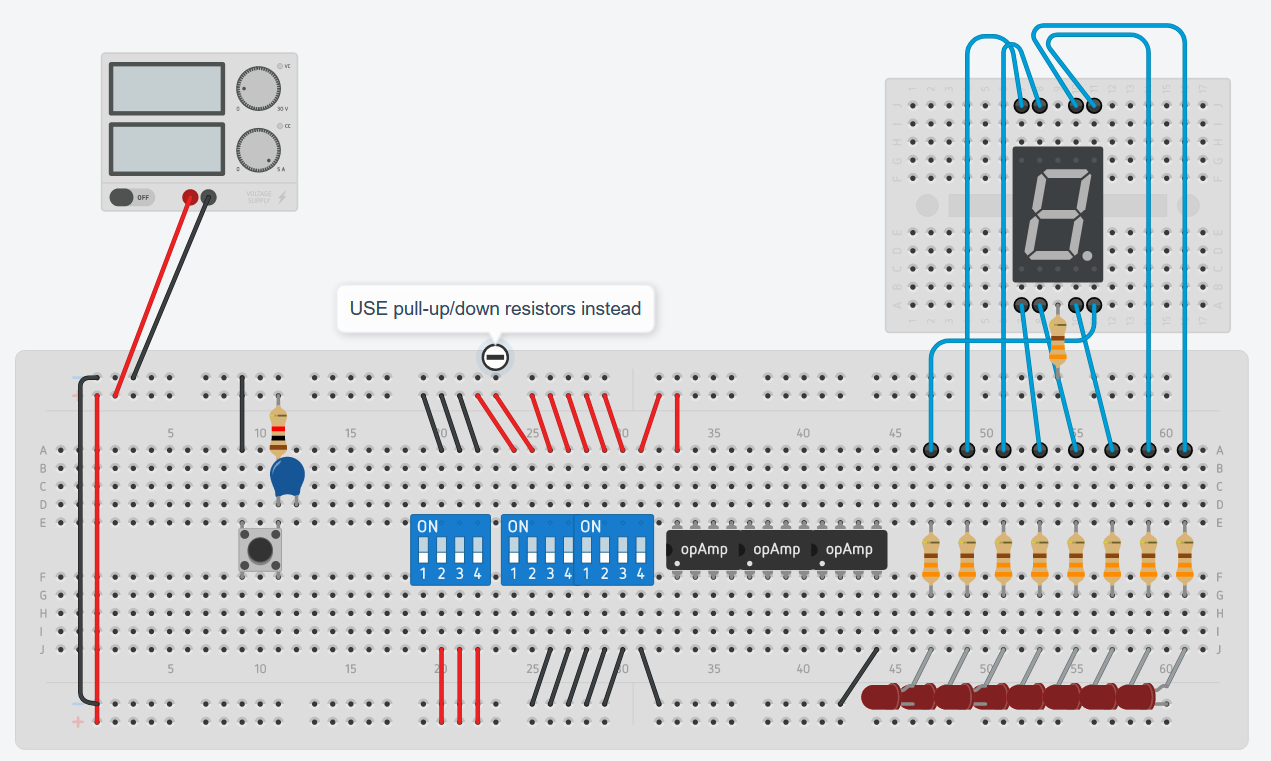
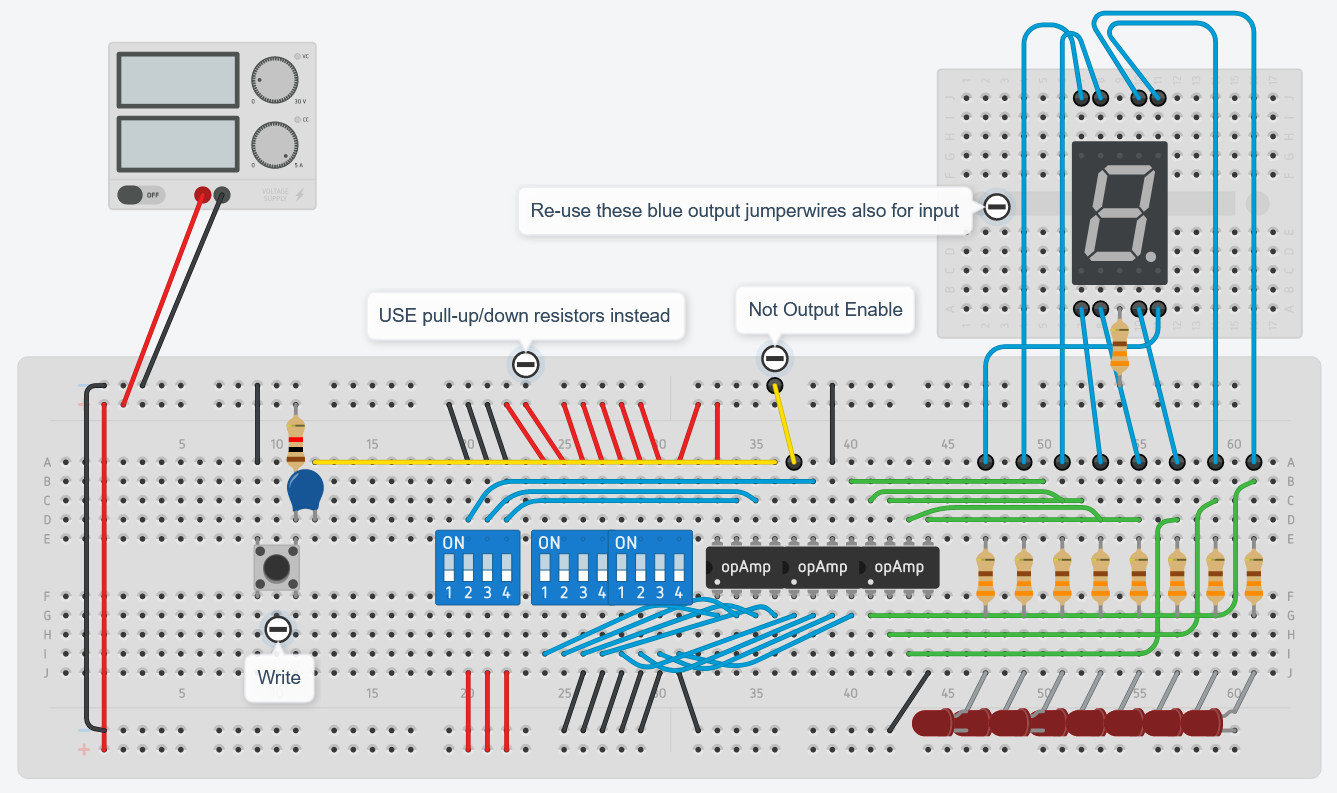
man man man

Changed region(s): [[0.0, 0.0, 1.0, 0.9974], [0.0614, 0.0302, 0.2455, 0.3929]]

diff --git a/_posts/2021-06-26-8-bit-computer.md b/_posts/2021-06-26-8-bit-computer.md
@@ -1380,6 +1380,9 @@ Explanation source: [electronics-fun.com]([/](https://electronics-fun.com/7-segm
 * EPROM stands for erasable programmable read only memory
   * Let's you program it multiple times by first erasing via ultra violet light
 * EEPROM stands for electric erasable programmable read only memory
+  * Organized as arrays of floating-gate transistors
+    * the gates are completely surrounded by highly resistive material
+    * the charge contained in it remains unchanged for long periods of time, nowadays typically longer than 10 years
   * You can re-program them electronically multiple times without needing to expose them to ultra violet light
 * We'll be using the AT28C16 EEPROM
   * CMOS based but CMOS & TTL Compatible Inputs and Outputs
@@ -1400,21 +1403,47 @@ Explanation source: [electronics-fun.com]([/](https://electronics-fun.com/7-segm
     * the data should have been inputted prior to that for up to \\(t_{DS}\\) ns to that
   * We don't have to worry about setting the address/data in advance since there is no limit for how much time in advance we set up those pins.
   * The only timings we should be aware of are the write pulse and the write cycle time, for which we will use the RC circuit to generate a pulse
+    * Since we are inputting the changes manually, we can actually ignore the write cycle time as there's no human way to insert new data and press the pushbutton before \\(t_{WC}\\) max time.
     * Remember that as we observed in the [D flip-flop]({{ page.url }}#d-flip-flop-latch-at-clock-pulse), with the voltages that we're using \\(RC\\) was a good estimation for high/low logic swaps.
-    * We shouldn't worry too much about \\(\overline{WE}\\) double clock pulses (the second after the clock signal is low) as long as \\(\overline{OE}\\) goes low before that happens. If it happens is not a big deal since the double pulse to write wouldn't change the content being written since the double pulse happens when the clock is low and no other component should have had changed the state of the machine.
+    * We shouldn't worry about \\(\overline{WE}\\) double clock pulses either because the reason it happened was from the capacitor discharging in the direction from where it got charged, that affected other modules connected to the clock signal before. However, in this scenario there is no other module connected to the same signal feeding the capacitor, and the only component connected to the capacitor is on the side that won't receive the discharging signal.
     * We have to achieve an RC circuit with T between 100 and 1000 ns
       * A capacitor in the nano farad get's us in the nano seconds range, together a resistor between 100 and 1k Ohm should do the trick.
+      * Check this useful [table for capacitor values]({{ site.url }}/downloads/Capacitor-Codes.pdf)
+      * This "edge" detector circuit has to actually be negative. Stable high and then a sharp decrease to low that bounces back to high. It can be achieved in 2 ways:
+        * Using a smiliar RC logic we used for the RAM (and we can borrow ahead from the kit either a NAND gate or a hex inverter to invert the signal like for the RAM), see the circuit below with the left 1 Mega ohm resistor * 100nF  (104 capacitor) = 0.1s pulse resistor circuit:
+        ![404]({{ site.url }}/images/8bit/output/buttonedge1.PNG)
+          * The circuit is stable low because the capacitor gets charged quickly and the input draws the current from the pull-down resistor on the right.
+          * When the button is pressed the capacitor decharges via the left resistor and the input remains low
+          * Upon release the capacitor starts to get charged again, while it's charging (up to a thertain threshold) the input briefly becomes high
+          * The right resistor is for when the capacitor is empty the 5V go to that resistor and we want to limit the current from 5V to GND
+          * The capacitor actually decharges via the left resistor, which is the one we use to calculate the pulse seconds.
+        * Alternatively, instead of using an inverter gate we could swap the pull-down resistors for pull-up resistors (and the 5V connection to the button with ground)
+        ![404]({{ site.url }}/images/8bit/output/buttonedge2.PNG)
+           * The circuit is stable high as the capacitor charges via the left pull-up resistor, becomes an open circuit and the right pull-up resistor feeds the input
+           * When the pushbutton is pressed everybody, including the capacitor, decharge via the ground terminal of the pushbutton and the circuit has low input until the capacitor charges up and becomes an open circuit and the circuit goes back to high input as the input gets the volts from the right pull-up resistor
+           * When the push button is released the capacitor decharges via the input, keeping it high.
 
 ### Breadboard circuit to program/debug the EEPROM
 With a breaboard and jumperwires:
 * Set up power/ground pins
 * Set \\(\overline{CE}\\) to ground
 * Hook up LEDs to the I/O pins with resistors in series
-* Use an 8-bit with one terminal connected to the EEPROM addresses and to ground with 10k ohm resistors and the other terminal connect it to \\(V{cc}\\)
+  * I/O0 = least signicant output LED
+* Use an 8-bit DIP switch with one terminal connected to the EEPROM addresses and to ground with 10k ohm resistors and the other terminal connect it to \\(V{cc}\\)
+  * LSB of 8-bit switch = A0 (pin 8)
 * Use a 4-bit DIP switch to do the same with the remaining 3 addresses, note that the \\(V_{cc}\\) and pull-down resistors are swapped to other side and the top switch should be left unused.
+  * MSB of 4-bit siwtch = A10 (pin 19)
 * Set the address and data contents beforehand (i.e. with jumperwires to \\(V_{cc}\\) or ground)
-* Make an RC circuit where one of the legs of the capcitor is connected to one of the terminals of a push button and to a pull-up resistor, and the other leg with the \\(\overline{WE}\\) pin. Set the other terminal of the button to ground.
+* Make an RC circuit with 2 pull-up, resistors a capacitor, and a pushbutton
+  * In practice, it may still work if we exceed the time specified by the datasheet, so we might just try to use or smallest resistor and capacitor values available in the kit.
+  * Connect the left leg of the pushbutton to ground
+  * Connect the right leg of the pushbutton to pull-up resistor A
+  * Connect the capacitor with one leg connected to pull-up resistor A and the other leg connected to pull-up resistor B and the \\(\overline{WE}\\) pin.
+  * pull-up resistor A value:
+  * pull-up resistor B value:
+  * capacitor value:
 * Then you can store data by setting the address with the DIP switches and the contents with the I/O jumperwires before pressing the pushbutton, then press the pushbutton to save.
+  * You need to have \\(\overline{OE}\\) high, otherwise it would not let you save (it'll just output the contents of the EEPROM at the selected address)
 
 #### Tinkercad
 ![404]({{ site.url }}/images/8bit/output/eeprom2.PNG)
